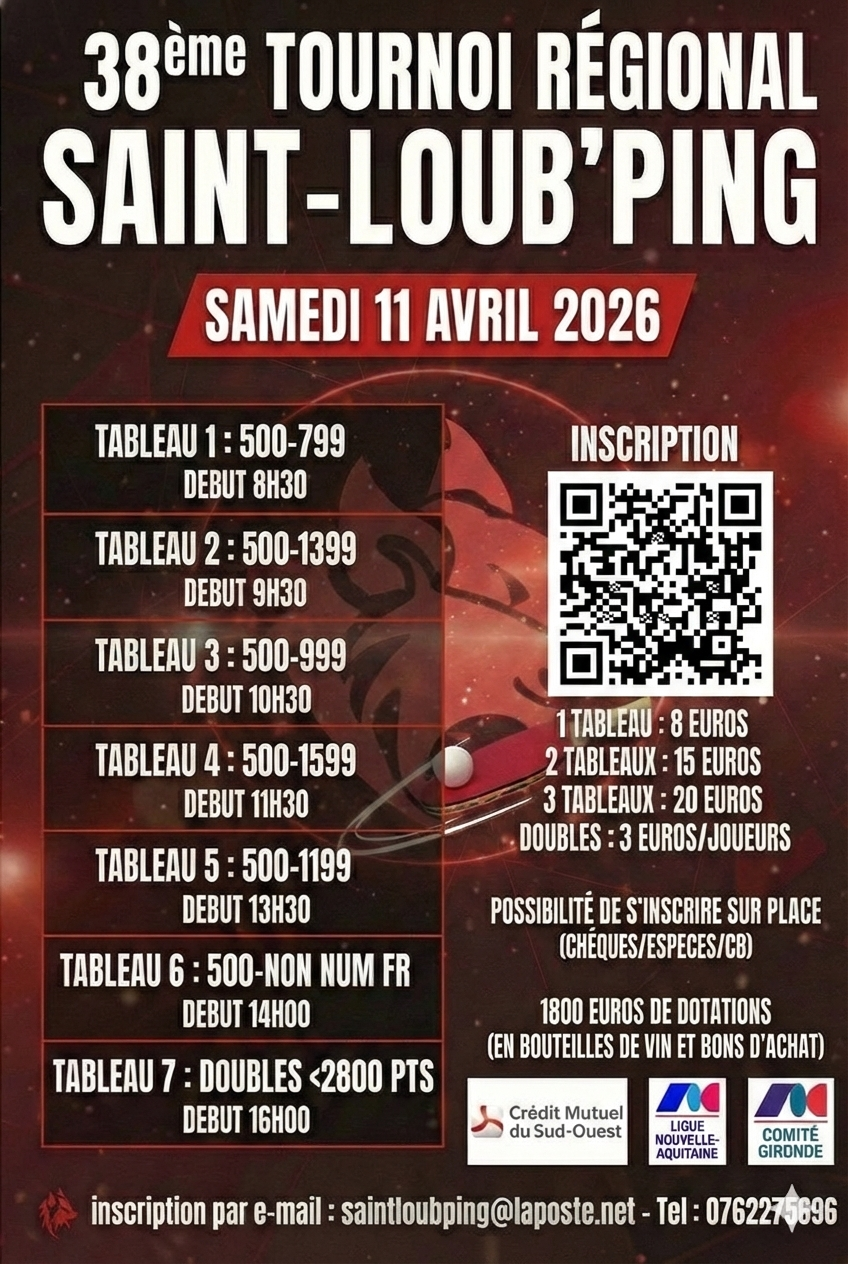
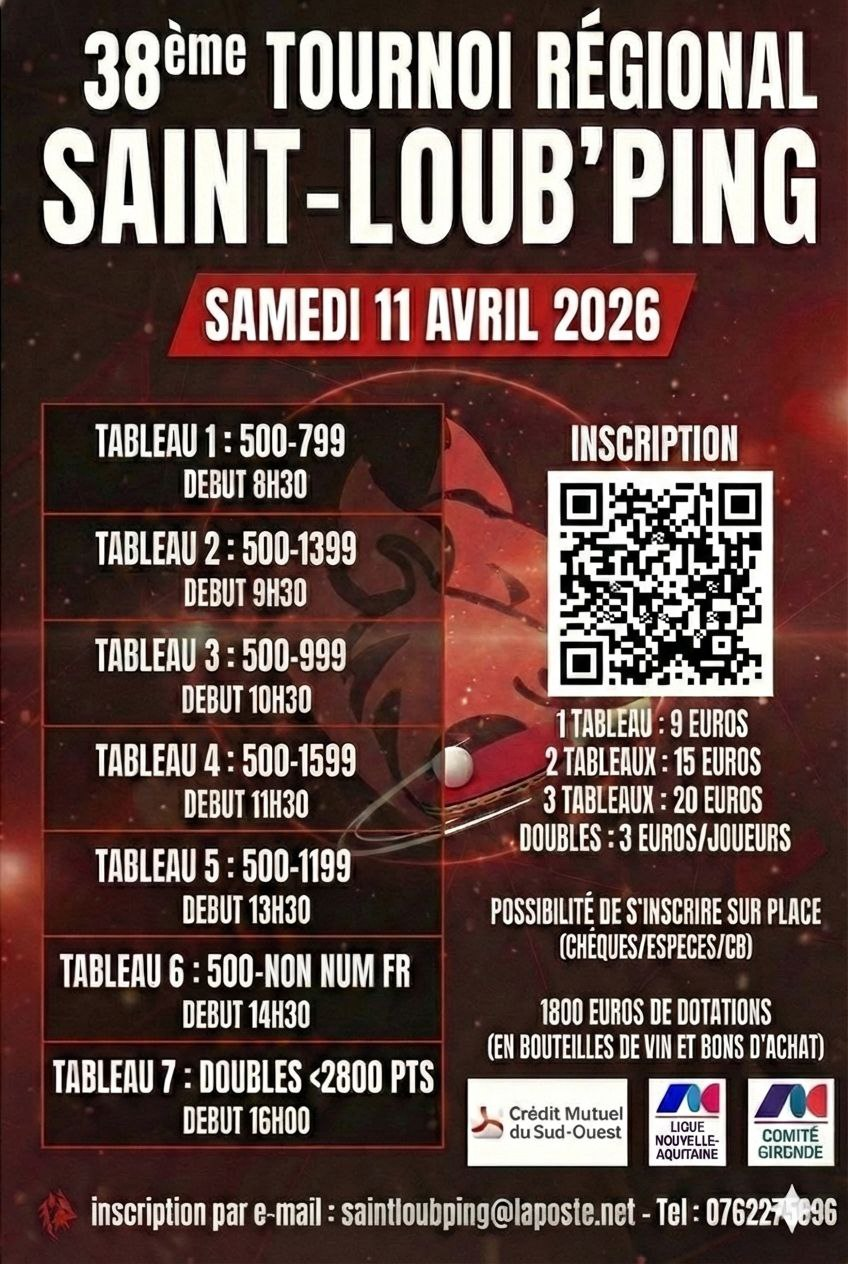
[dyad] Mise à jour de l'image et des détails du tournoi - wrote 4 file(s)

diff --git a/src/pages/TournamentRegistration.tsx b/src/pages/TournamentRegistration.tsx
@@ -23,13 +23,13 @@ import { Loader2 } from "lucide-react"; // Import Loader2 icon
 import { useNavigate } from "react-router-dom"; // Import useNavigate
 
 const tableauxOptions = [
-  { id: "t1", label: "Tableau 1 : 8h30 (500-799)" },
-  { id: "t2", label: "Tableau 2 : 9h30 (500-1399)" },
-  { id: "t3", label: "Tableau 3 : 10h30 (500-999)" },
-  { id: "t4", label: "Tableau 4 : 11h30 (500-1599)" },
-  { id: "t5", label: "Tableau 5 : 13h30 (500-1199)" },
-  { id: "t6", label: "Tableau 6 : 14h30 (500-Non Num FR)" },
-  { id: "d1", label: "Tableau 7 : 16h00 (Doubles <2800)", price: 3 }, // Prix spécifique pour les doubles
+  { id: "t1", label: "Tableau 1 : 500-799 (Début 8h30)" },
+  { id: "t2", label: "Tableau 2 : 500-1399 (Début 9h30)" },
+  { id: "t3", label: "Tableau 3 : 500-999 (Début 10h30)" },
+  { id: "t4", label: "Tableau 4 : 500-1599 (Début 11h30)" },
+  { id: "t5", label: "Tableau 5 : 500-1199 (Début 13h30)" },
+  { id: "t6", label: "Tableau 6 : 500-Non Num FR (Début 14h30)" },
+  { id: "d1", label: "Tableau 7 : Doubles <2800 Pts (Début 16h00)", price: 3 }, // Prix spécifique pour les doubles
 ];
 
 const MAX_INDIVIDUAL_TABLEAUX = 3;
@@ -132,7 +132,7 @@ const TournamentRegistration = () => {
     const numIndividualTableaux = individualTableaux.length;
 
     if (numIndividualTableaux === 1) {
-      currentTotal += 8;
+      currentTotal += 9; // Updated price
     } else if (numIndividualTableaux === 2) {
       currentTotal += 15;
     } else if (numIndividualTableaux >= 3) {
@@ -328,7 +328,7 @@ const TournamentRegistration = () => {
                       </div>
                     )}
                     <FormDescription className="text-clubLight-foreground/70">
-                      Tarifs : 1 tableau = 8€, 2 tableaux = 15€, 3 tableaux = 20€. Doubles = 3€ en supplément.
+                      Tarifs : 1 tableau = 9€, 2 tableaux = 15€, 3 tableaux = 20€. Doubles = 3€ en supplément.
                     </FormDescription>
                     <FormMessage />
                   </FormItem>

diff --git a/src/pages/TournamentRegistrationsList.tsx b/src/pages/TournamentRegistrationsList.tsx
@@ -69,13 +69,13 @@ const TournamentRegistrationsList = () => {
     if (!tableaux || tableaux.length === 0) return "Aucun";
     return tableaux.map(t => {
       switch (t) {
-        case 't1': return '8h30 (500-799)';
-        case 't2': return '9h30 (500-1399)';
-        case 't3': return '10h30 (500-999)';
-        case 't4': return '11h30 (500-1599)';
-        case 't5': return '13h30 (500-1199)';
-        case 't6': return '14h30 (500-Non Num FR)';
-        case 'd1': return '16h00 (Doubles <2800)';
+        case 't1': return '500-799 (8h30)';
+        case 't2': return '500-1399 (9h30)';
+        case 't3': return '500-999 (10h30)';
+        case 't4': return '500-1599 (11h30)';
+        case 't5': return '500-1199 (13h30)';
+        case 't6': return '500-Non Num FR (14h30)';
+        case 'd1': return 'Doubles <2800 Pts (16h00)';
         default: return t;
       }
     }).join(', ');
